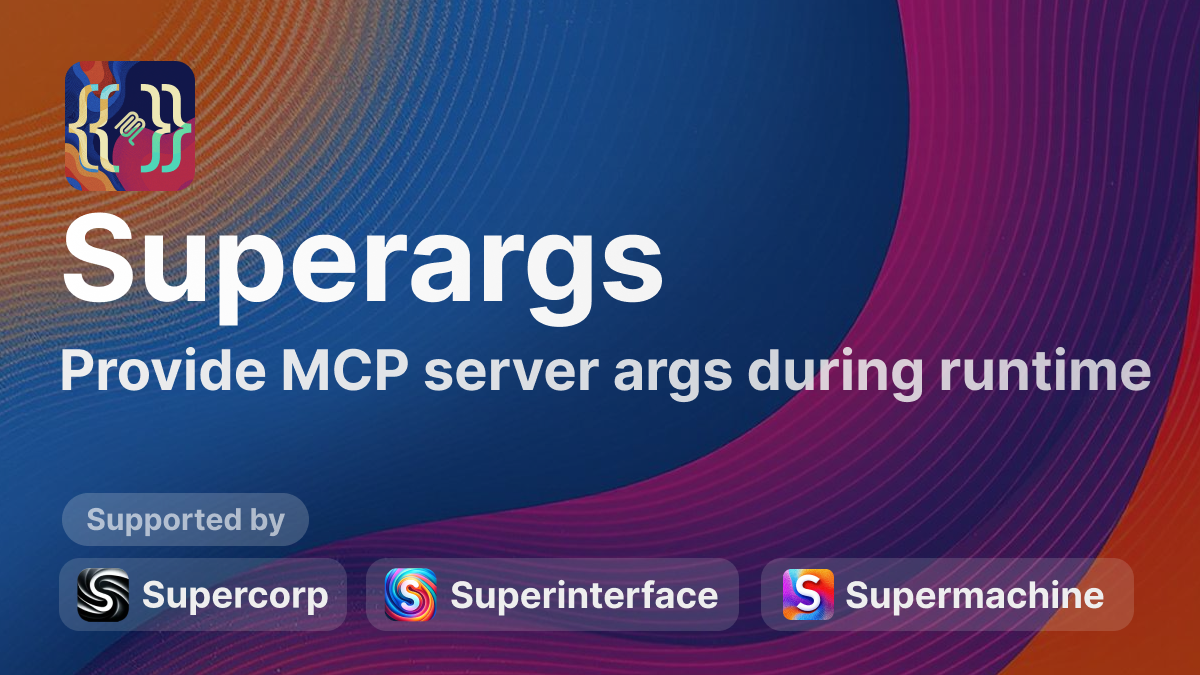
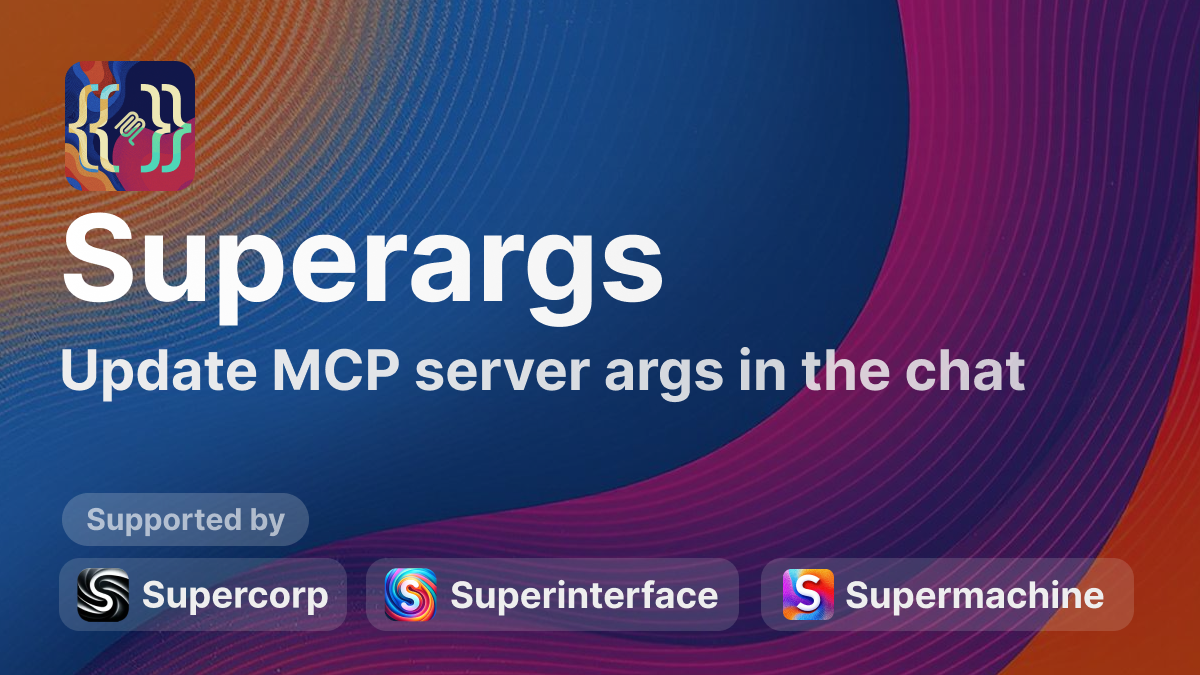
superargs@1.0.2: update copy

Changed region(s): [[0.0308, 0.4978, 0.9558, 0.5911]]

diff --git a/README.md b/README.md
@@ -1,4 +1,4 @@
-![Superargs: Provide MCP server args during runtime](https://raw.githubusercontent.com/supercorp-ai/superargs/main/superargs.png)
+![Superargs: Update MCP server args in the chat](https://raw.githubusercontent.com/supercorp-ai/superargs/main/superargs.png)
 
 **Superargs** allows setting up MCP server args during runtime.
 Provide arguments to any **MCP server** during interaction with assistant instead of during initial setup.
